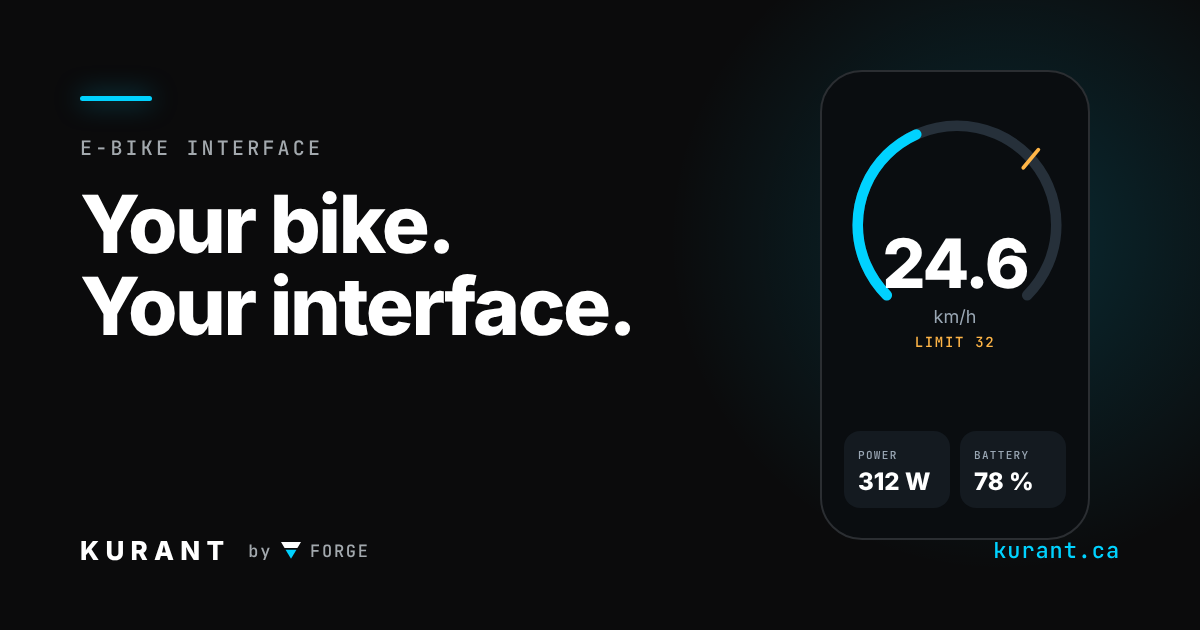
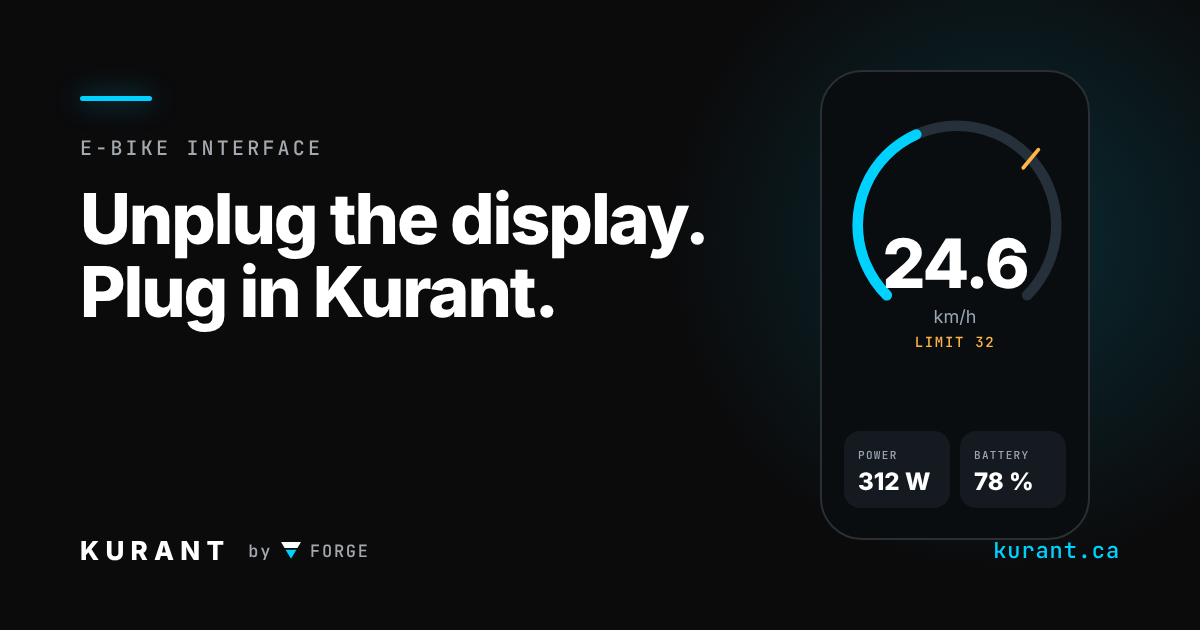
Site: match the v3 Kickstarter page
New headline (Débranchez l'écran. Branchez Kurant. / Unplug the display.
Plug in Kurant.) on the page and the share images; KT cable and power-on
from the app in the install steps; early bird CAD 119 (campaign.json and
FAQ); delivery about six months; FAQ on turning the bike on, a dead phone
before a ride, and the phone mount not being included.

Claude-Session: https://claude.ai/code/session_01X6eaQy9G7NmcvmaQQQAqvP

Changed region(s): [[0.0617, 0.3016, 0.5858, 0.5429]]

diff --git a/index.html b/index.html
@@ -58,13 +58,13 @@
       <div class="hero-copy">
         <span class="slit" aria-hidden="true"></span>
         <p class="eyebrow">Interface pour vélo électrique</p>
-        <h1>Votre vélo. Votre interface.</h1>
+        <h1>Débranchez l'écran. Branchez Kurant.</h1>
         <p class="lede">Kurant remplace l'afficheur de votre vélo électrique. Un petit module se branche à la place de l'écran, et votre téléphone affiche la vitesse, la puissance et la batterie, avec des réglages expliqués en mots simples.</p>
         <div class="hero-ctas">
           <a class="btn btn-primary" href="#verifier">Vérifier mon vélo</a>
           <a class="btn btn-ghost" href="#fonctionnement">Voir le fonctionnement</a>
         </div>
-        <p class="hero-note">Prototype fonctionnel. Campagne Kickstarter prévue : les personnes inscrites seront averties en premier.</p>
+        <p class="hero-note">Prototype fonctionnel sur contrôleur KT. Campagne Kickstarter prévue : les personnes inscrites seront averties en premier.</p>
       </div>
 
       <figure class="device">
@@ -125,9 +125,9 @@
       </div>
 
       <ol class="steps">
-        <li><h3>Branchez le module</h3><p>Débranchez l'écran d'origine et branchez Kurant à sa place, avec le câble prévu pour votre contrôleur. Aucune soudure.</p></li>
+        <li><h3>Branchez le module</h3><p>Débranchez l'écran d'origine et branchez Kurant à sa place, avec son câble KT. Aucune soudure, et l'écran d'origine se rebranche en tout temps.</p></li>
         <li><h3>Ouvrez l'application</h3><p>L'application, sur iPhone ou Android, trouve le module et reconnaît le type de contrôleur.</p></li>
-        <li><h3>Roulez</h3><p>Les données s'affichent en direct. Les réglages se font à l'arrêt.</p></li>
+        <li><h3>Roulez</h3><p>Allumez le vélo depuis l'application. Les données s'affichent en direct et l'assistance se change à l'écran. Les réglages se font à l'arrêt.</p></li>
       </ol>
     </div>
   </section>
@@ -171,7 +171,7 @@
     <div class="wrap">
       <div class="section-head">
         <p class="eyebrow">Sécurité</p>
-        <h2>Le vélo ne dépend jamais du téléphone</h2>
+        <h2>Une fois allumé, le vélo ne dépend plus du téléphone</h2>
       </div>
       <ul class="rules">
         <li><span class="rule-key">Téléphone absent</span><div><h3>Le vélo continue de rouler</h3><p>Le module maintient seul la liaison avec le contrôleur. Un téléphone déchargé, une application fermée ou une mise à jour en cours ne coupent pas l'assistance.</p></div></li>
@@ -270,12 +270,14 @@
       </div>
       <div class="faq">
         <details><summary>Est-ce compatible avec l'iPhone ?</summary><p>Oui. L'application sera offerte gratuitement sur iPhone et sur Android, sans compte.</p></details>
-        <details><summary>Que se passe-t-il si mon téléphone se décharge ?</summary><p>Le vélo continue de fonctionner avec l'assistance choisie. Vous perdez l'affichage jusqu'à la reconnexion. Un support de téléphone avec recharge est recommandé.</p></details>
+        <details><summary>Que se passe-t-il si mon téléphone se décharge ?</summary><p>En route, le vélo continue de fonctionner avec l'assistance choisie ; vous perdez l'affichage jusqu'à la reconnexion. Si le téléphone est déchargé avant de partir, rebranchez l'écran d'origine : il se rebranche en quelques secondes, sans outil.</p></details>
+        <details><summary>Comment allume-t-on le vélo ?</summary><p>Depuis l'application. Le module garde ensuite le vélo allumé, même si le téléphone se déconnecte.</p></details>
+        <details><summary>Le support de téléphone est-il inclus ?</summary><p>Non : utilisez votre support de guidon. Un modèle avec recharge est recommandé pour les longues sorties.</p></details>
         <details><summary>L'installation demande-t-elle de souder ?</summary><p>Non. Kurant se branche sur le connecteur de l'écran d'origine, avec un câble adapté à votre contrôleur. Gardez l'écran d'origine : vous pouvez le rebrancher en tout temps.</p></details>
         <details><summary>Quels vélos seront pris en charge ?</summary><p>Au lancement, les contrôleurs KT (écrans LCD3, LCD5, LCD8) sur batterie de 48 ou 52 V : ils sont vérifiés au banc. Bafang UART, Lishui, Shimano STEPS, Aventon, Rad Power Bikes et Lectric sont en développement ; réservez votre système à 1 $ sur Kickstarter et les plus réservés passeront au banc en premier. Bosch n'est pas prévu : son système est fermé. Utilisez l'outil de vérification plus haut pour votre vélo.</p></details>
-        <details><summary>Quel sera le prix ?</summary><p>Le prix prévu est de 159 $ CA, taxes en sus, module et application compris. Pendant la campagne Kickstarter, les 100 premiers modules seront à 129 $. L'application ne demande aucun abonnement.</p></details>
+        <details><summary>Quel sera le prix ?</summary><p>Le prix prévu est de 159 $ CA, taxes en sus, module et application compris. Pendant la campagne Kickstarter : 119 $ pour les 100 premiers, puis 139 $. L'application ne demande aucun abonnement.</p></details>
         <details><summary>Faut-il créer un compte ?</summary><p>Non. L'application ne demande pas de compte, et l'historique des trajets reste sur votre téléphone.</p></details>
-        <details><summary>Quand Kurant sera-t-il offert ?</summary><p>Le prototype fonctionne sur un vélo à contrôleur KT. Kurant sera lancé par une campagne Kickstarter, livrée au Canada environ quatre mois après sa fin, le temps de la certification et de la production. La liste d'attente sera avertie en premier.</p></details>
+        <details><summary>Quand Kurant sera-t-il offert ?</summary><p>Le prototype fonctionne sur un vélo à contrôleur KT. Kurant sera lancé par une campagne Kickstarter, livrée au Canada environ six mois après sa fin : circuit et boîtier finaux, certification, puis production. La liste d'attente sera avertie en premier.</p></details>
         <details><summary>Pourquoi « Kurant » ?</summary><p>De « courant » : le courant électrique qui fait avancer votre vélo, et être au courant de tout ce qu'il fait.</p></details>
       </div>
     </div>

diff --git a/en/index.html b/en/index.html
@@ -58,13 +58,13 @@
       <div class="hero-copy">
         <span class="slit" aria-hidden="true"></span>
         <p class="eyebrow">E-bike interface</p>
-        <h1>Your bike. Your interface.</h1>
+        <h1>Unplug the display. Plug in Kurant.</h1>
         <p class="lede">Kurant replaces your e-bike's display. A small module plugs in where the screen was, and your phone shows speed, power and battery, with settings explained in plain words.</p>
         <div class="hero-ctas">
           <a class="btn btn-primary" href="#check">Check my bike</a>
           <a class="btn btn-ghost" href="#how-it-works">See how it works</a>
         </div>
-        <p class="hero-note">Working prototype. Kickstarter campaign planned: people on the waitlist hear first.</p>
+        <p class="hero-note">Working prototype on a KT controller. Kickstarter campaign planned: people on the waitlist hear first.</p>
       </div>
 
       <figure class="device">
@@ -125,9 +125,9 @@
       </div>
 
       <ol class="steps">
-        <li><h3>Plug in the module</h3><p>Unplug the original display and plug Kurant in its place, with the cable made for your controller. No soldering.</p></li>
+        <li><h3>Plug in the module</h3><p>Unplug the original display and plug Kurant in its place, with its KT cable. No soldering, and the original display plugs back in any time.</p></li>
         <li><h3>Open the app</h3><p>The app, on iPhone or Android, finds the module and recognizes the controller type.</p></li>
-        <li><h3>Ride</h3><p>Data shows live. Settings are changed when stopped.</p></li>
+        <li><h3>Ride</h3><p>Turn the bike on from the app. Data shows live and you change assist on the screen. Settings are changed when stopped.</p></li>
       </ol>
     </div>
   </section>
@@ -171,7 +171,7 @@
     <div class="wrap">
       <div class="section-head">
         <p class="eyebrow">Safety</p>
-        <h2>The bike never depends on the phone</h2>
+        <h2>Once on, the bike never depends on the phone</h2>
       </div>
       <ul class="rules">
         <li><span class="rule-key">No phone</span><div><h3>The bike keeps running</h3><p>The module keeps the link with the controller on its own. A dead phone, a closed app or an update in progress does not cut the assist.</p></div></li>
@@ -270,12 +270,14 @@
       </div>
       <div class="faq">
         <details><summary>Does it work with iPhone?</summary><p>Yes. The app will be free on iPhone and Android, with no account.</p></details>
-        <details><summary>What happens if my phone dies?</summary><p>The bike keeps working with the assist level you chose. You lose the display until the phone reconnects. A phone mount with charging is recommended.</p></details>
+        <details><summary>What happens if my phone dies?</summary><p>Mid-ride, the bike keeps the assist level you chose; you lose the display until the phone reconnects. If your phone is dead before a ride, plug the original display back in: it takes a few seconds, no tools.</p></details>
+        <details><summary>How do I turn the bike on?</summary><p>From the app. The module then keeps the bike on, even if the phone disconnects.</p></details>
+        <details><summary>Is a phone mount included?</summary><p>No: use your own handlebar mount. One with charging is a good idea for long rides.</p></details>
         <details><summary>Does installation need soldering?</summary><p>No. Kurant plugs into the original display's connector, with a cable made for your controller. Keep the original display: you can plug it back in at any time.</p></details>
         <details><summary>Which bikes will be supported?</summary><p>At launch, KT controllers (LCD3, LCD5, LCD8 displays) on a 48 or 52 V battery: they are bench-verified. Bafang UART, Lishui, Shimano STEPS, Aventon, Rad Power Bikes and Lectric are in development; reserve your system for $1 on Kickstarter and the most reserved go on the bench first. Bosch isn't planned: its system is closed. Use the checker above for your bike.</p></details>
-        <details><summary>How much will it cost?</summary><p>The planned price is CAD 159 plus tax, module and app included. During the Kickstarter campaign, the first 100 modules are CAD 129. The app has no subscription.</p></details>
+        <details><summary>How much will it cost?</summary><p>The planned price is CAD 159 plus tax, module and app included. During the Kickstarter campaign: CAD 119 for the first 100, then CAD 139. The app has no subscription.</p></details>
         <details><summary>Do I need an account?</summary><p>No. The app doesn't ask for an account, and your ride history stays on your phone.</p></details>
-        <details><summary>When will Kurant be available?</summary><p>The prototype works on a bike with a KT controller. Kurant launches through a Kickstarter campaign, shipping in Canada about four months after it ends, to allow for certification and production. The waitlist will hear first.</p></details>
+        <details><summary>When will Kurant be available?</summary><p>The prototype works on a bike with a KT controller. Kurant launches through a Kickstarter campaign, delivered in Canada about six months after it ends: final board and enclosure, certification, then production. The waitlist hears first.</p></details>
         <details><summary>Why “Kurant”?</summary><p>From the French <i lang="fr">courant</i>: the electric current that moves your bike, and being <i lang="fr">au courant</i>, in the know about everything it does.</p></details>
       </div>
     </div>

diff --git a/assets/campaign.js b/assets/campaign.js
@@ -22,7 +22,7 @@
   const KICKSTARTER = /(^|\.)kickstarter\.com$/;
   const PRODUCTION = /(^|\.)kurant\.ca$/.test(location.hostname);
 
-  const price = (cad) => (lang === "fr" ? `${cad} $` : `CAD ${cad}`);
+  const price = (cad) => (lang === "fr" ? `${cad}\u00a0$` : `CAD ${cad}`);
   const day = (iso) => {
     const date = iso ? new Date(`${iso}T12:00:00`) : null;
     if (!date || Number.isNaN(date.getTime())) return "";
@@ -79,7 +79,7 @@
     const href = safeUrl(campaign.url) || (preview ? "https://www.kickstarter.com/" : null);
     if (!href) return;
 
-    const copy = TEXT[state]({ date: day(campaign.launch), early: Number(campaign.early_bird_cad) || 129 });
+    const copy = TEXT[state]({ date: day(campaign.launch), early: Number(campaign.early_bird_cad) || 119 });
 
     // Banner under the header.
     const banner = document.createElement("aside");
